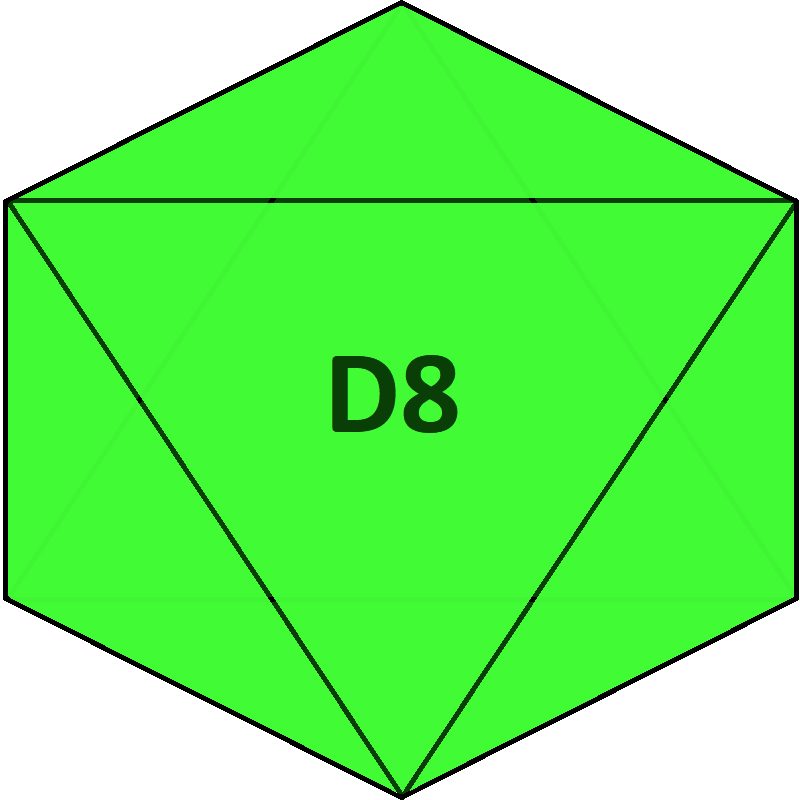
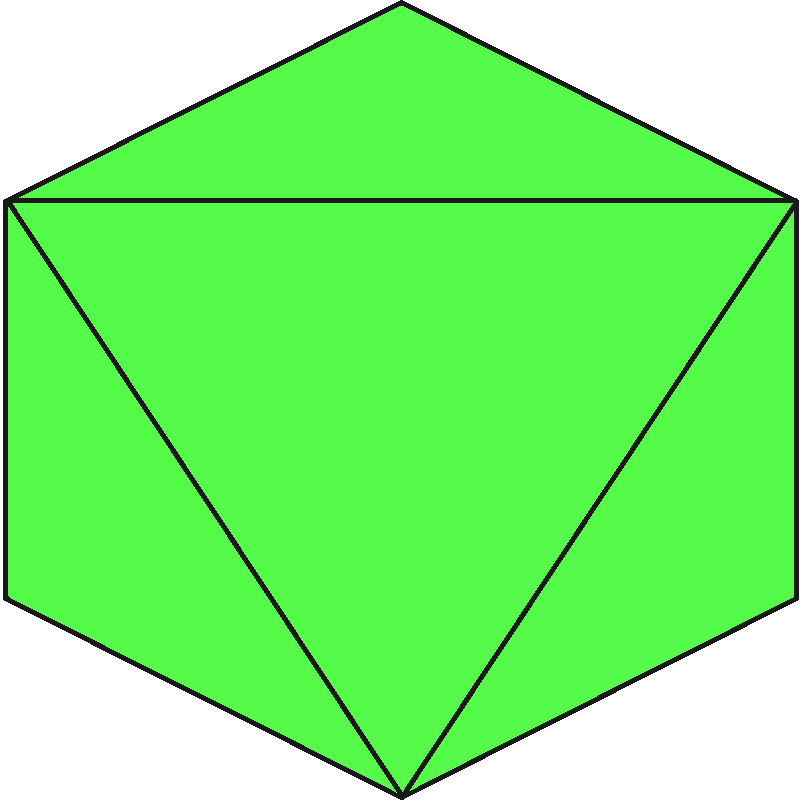
replaced d8 image and made some positioning amendments

diff --git a/D&D_dice_roller.html b/D&D_dice_roller.html
@@ -37,10 +37,11 @@
           <p class="roll-scorenew" id="score10"></p>
         </div>
         <div class="dice-section">
-          <img src="assets/images/d8.png" alt="A bright green D8 di">
-          <h3>D8</h3>
-          <input value="Click to roll" onclick="d8Roller()" type="button" id="8roller" class="roll-button">
-          <p class="roll-score" id="score8">Score:</p>
+          <!-- <img src="assets/images/d8.png" alt="A bright green D8 di"> -->
+          <h3 class="headingnew">D8</h3>
+          <input value="Click to roll" onclick="d8Roller()" type="button" id="8roller" class="roll-buttonnew">
+          <img src="assets/images/d8.png" alt="A bright green D8 di" class="imgnew">
+          <p class="roll-scorenew" id="score8"></p>
         </div>
         <div class="dice-section">
           <img src="assets/images/d6.png" alt="A bright green D6 di">

diff --git a/assets/stylesheets/style.css b/assets/stylesheets/style.css
@@ -34,7 +34,7 @@ img {
     width: 40%;
     height: auto;
     position: relative;
-    top: 70px;
+    top: 66px;
     left: 50%;
     margin-right: -50%;
     transform: translate(-50%, 0);
@@ -67,7 +67,7 @@ img {
 
 .roll-buttonnew {
     position: relative;
-    top: -75px;
+    top: -95px;
     left: 50%;
     margin-right: -50%;
     transform: translate(-50%, 0);
@@ -107,16 +107,21 @@ img {
 }
 
 #score20 {
-    top: -35px;
+    top: -40px;
     left: 2%;
 }
 
 #score12 {
-    top: -27px;
+    top: -30px;
     left: 1%;
 }
 
 #score10 {
+    top: -27px;
+    left: 1%;
+}
+
+#score8 {
     top: -27px;
     left: 1%;
 }

diff --git a/D&D_dice_roller.js b/D&D_dice_roller.js
@@ -32,7 +32,8 @@
 
         function d8Roller() {
           let result8 = (Math.floor(Math.random() * 8) + 1);
-          document.getElementById('score8').innerHTML = "Score: " + result8;
+          // document.getElementById('score8').innerHTML = "Score: " + result8;
+          document.getElementById('score8').innerHTML = result8;
         }
 
         function d6Roller() {
